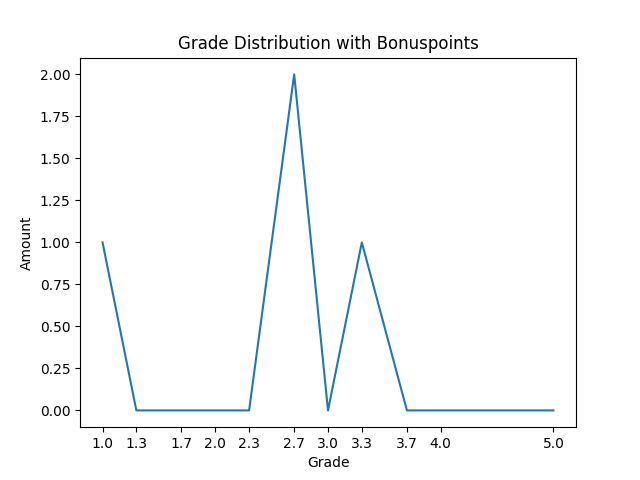
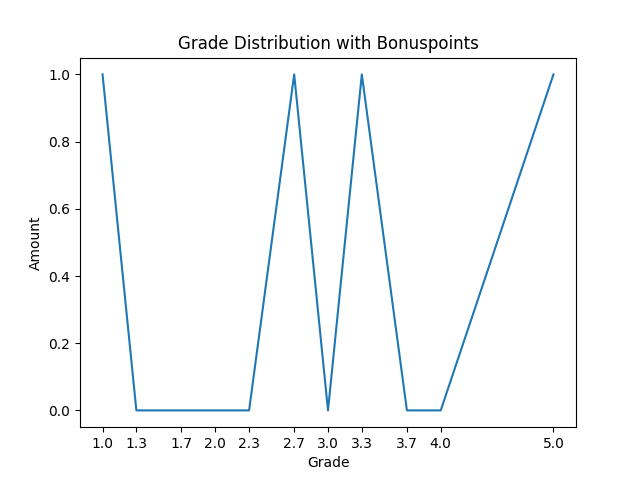
hotfix

diff --git a/generator/gen.py b/generator/gen.py
@@ -11,6 +11,8 @@ class markdown_generator():
         self.bonus_points_grades = bonus_points_grades
         self.grades = [5.0, 4.0, 3.7, 3.3, 3.0, 2.7, 2.3, 2.0, 1.7, 1.3, 1.0]
         self.grade_distro = self.get_grade_distro(self.parsed_grade_list)
+        if bonus_points:
+            self.bonus_grade_distro = self.get_grade_distro(self.bonus_points_grades)
         self.grade_list = grade_list
         os.chdir(path)
         self.df = df
@@ -70,6 +72,17 @@ class markdown_generator():
             out += (f"| {self.grades[i]} | {point_border[i]} | {self.grade_distro[i]} | {self.grade_distro[i] / all_students * 100}% |\n")
         out += "\n\n"
         self.str_out += out
+        
+        if self.bonus_points:
+            out = "### Point Border with Bonuspoints\n\n"
+            out += "| Grade | Points | Amount | Percentage |\n"
+            for i in range(4):
+                out += "| ---- "
+            out += "|\n"
+            for i in range(11):
+                out += (f"| {self.grades[i]} | {point_border[i]} | {self.bonus_grade_distro[i]} | {self.bonus_grade_distro[i] / all_students * 100}% |\n")
+            out += "\n\n"
+            self.str_out += out
     
     def write_grade_distro_graphic(self) -> None:
         out = "### Grade Distribution\n\n"

diff --git a/sample/example.md b/sample/example.md
@@ -4,7 +4,7 @@
 
 | Name | exercise1 | exercise2 | exercise3 | exercise4 | bonus | Points | Points w bonus | Grade | Grade w Bonus |
 | ---- | ---- | ---- | ---- | ---- | ---- | ---- | ---- | ---- | ---- |
-| person1 | 1 | 4.0 | 8 | 2 | 10 | 15.0 | 25.0 | 5.0 | 2.7 |
+| person1 | 1 | 4.0 | 8 | 2 | 10 | 15.0 | 25.0 | 5.0 | 5.0 |
 | person2 | 5 | 2.5 | 10 | 0 | 5 | 17.5 | 22.5 | 4.0 | 3.3 |
 | person3 | 2 | 6.0 | 7 | 10 | 0 | 25.0 | 25.0 | 2.7 | 2.7 |
 | person4 | 5 | 10.0 | 10 | 10 | 3 | 35.0 | 38.0 | 1.0 | 1.0 |
@@ -30,6 +30,23 @@
 | 4.0 | 17.5 | 1 | 25.0% |
 | 3.7 | 19.25 | 0 | 0.0% |
 | 3.3 | 21.0 | 0 | 0.0% |
+| 3.0 | 22.75 | 0 | 0.0% |
+| 2.7 | 24.5 | 1 | 25.0% |
+| 2.3 | 26.25 | 0 | 0.0% |
+| 2.0 | 28.0 | 0 | 0.0% |
+| 1.7 | 29.75 | 0 | 0.0% |
+| 1.3 | 31.5 | 0 | 0.0% |
+| 1.0 | 33.25 | 1 | 25.0% |
+
+
+### Point Border with Bonuspoints
+
+| Grade | Points | Amount | Percentage |
+| ---- | ---- | ---- | ---- |
+| 5.0 | 0 | 1 | 25.0% |
+| 4.0 | 17.5 | 0 | 0.0% |
+| 3.7 | 19.25 | 0 | 0.0% |
+| 3.3 | 21.0 | 1 | 25.0% |
 | 3.0 | 22.75 | 0 | 0.0% |
 | 2.7 | 24.5 | 1 | 25.0% |
 | 2.3 | 26.25 | 0 | 0.0% |
